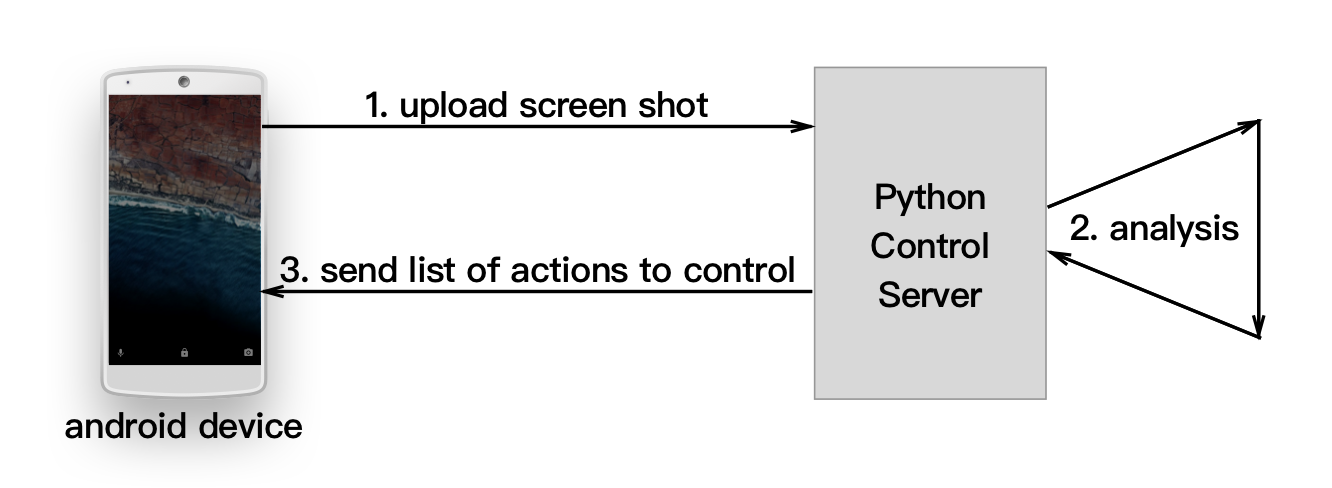
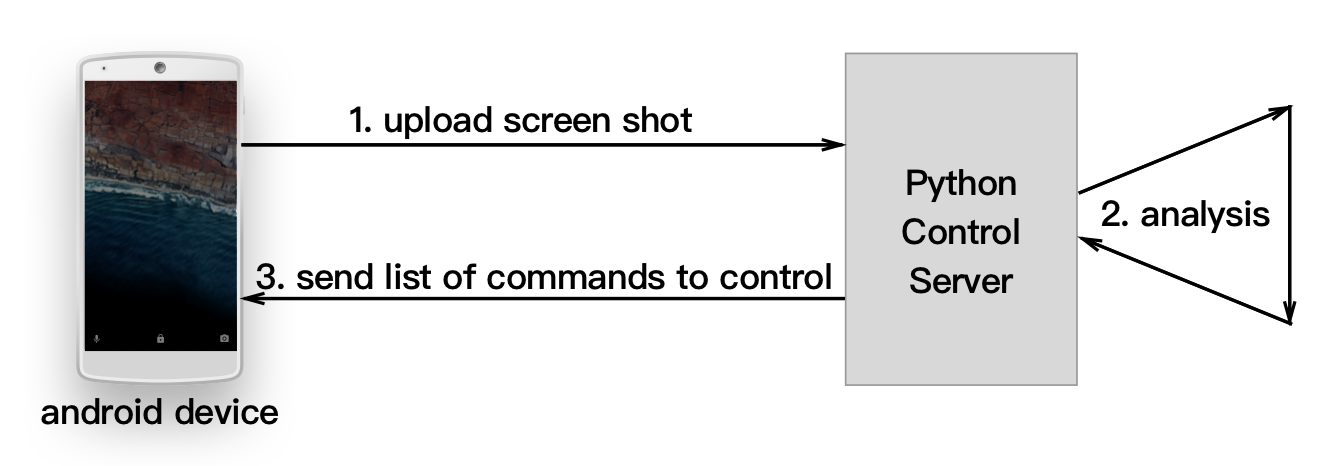
add FloatWindow and simple-control-server.

Changed region(s): [[0.0308, 0.0901, 0.985, 0.9313]]

diff --git a/py-android-control-app/app/src/main/java/app/kalen/pyandroidcontrol/BackgroundService.kt b/py-android-control-app/app/src/main/java/app/kalen/pyandroidcontrol/BackgroundService.kt
@@ -1,0 +1,150 @@
+package app.kalen.pyandroidcontrol
+
+
+import android.app.Service
+import android.content.Context
+import android.content.Intent
+import android.graphics.PixelFormat
+import android.os.Build
+import android.os.IBinder
+import android.provider.Settings
+import android.view.Gravity
+import android.view.MotionEvent
+import android.view.View
+import android.view.WindowManager
+import android.widget.Button
+import android.widget.Toast
+
+
+class BackgroundService : Service() {
+
+    private var windowManager: WindowManager? = null
+    private var layoutParams: WindowManager.LayoutParams? = null
+
+    private var button: Button? = null
+
+    private var performClick = true
+    private var isMoving = false
+    private var taskStarted = false
+
+    override fun onCreate() {
+        super.onCreate()
+
+        windowManager = getSystemService(Context.WINDOW_SERVICE) as WindowManager
+        layoutParams = WindowManager.LayoutParams()
+        if (Build.VERSION.SDK_INT >= Build.VERSION_CODES.O) {
+            layoutParams!!.type = WindowManager.LayoutParams.TYPE_APPLICATION_OVERLAY
+        } else {
+            layoutParams!!.type = WindowManager.LayoutParams.TYPE_PHONE
+        }
+        layoutParams!!.format = PixelFormat.RGBA_8888
+        layoutParams!!.gravity = Gravity.START or Gravity.TOP
+        layoutParams!!.flags = WindowManager.LayoutParams.FLAG_NOT_TOUCH_MODAL or
+                WindowManager.LayoutParams.FLAG_NOT_FOCUSABLE
+        layoutParams!!.width = 250
+        layoutParams!!.height = 140
+        layoutParams!!.x = 300
+        layoutParams!!.y = 300
+    }
+
+    override fun onBind(intent: Intent): IBinder? {
+        BackgroundService.isStarted = true
+        showFloatingWindow()
+
+        return null
+    }
+
+    override fun onUnbind(intent: Intent): Boolean {
+        windowManager!!.removeView(button)
+        BackgroundService.isStarted = false
+        return super.onUnbind(intent)
+    }
+
+    private fun showFloatingWindow() {
+        if (Build.VERSION.SDK_INT >= Build.VERSION_CODES.M) {
+            if (!Settings.canDrawOverlays(this)) {
+                return
+            }
+        }
+        button = Button(applicationContext)
+        button!!.text = "Start"
+        windowManager!!.addView(button, layoutParams)
+
+        button!!.setOnTouchListener(FloatingOnTouchListener())
+
+        button!!.setOnClickListener {
+            println("ACTION_clicked")
+            println(performClick)
+            if (performClick) {
+                if (!taskStarted) {
+                    button!!.text = "Stop"
+                    Toast.makeText(applicationContext, "Task Started!!", Toast.LENGTH_SHORT).show()
+                    // start a thread to run in backend.
+                    Thread(Runnable {
+                        while (this@BackgroundService.taskStarted) {
+                            try {
+                                Thread.sleep(1000)
+
+                                NetUtils.uploadScreenshot()
+                            } catch (e: InterruptedException) {
+                                e.printStackTrace()
+                            }
+
+                        }
+                    }).start()
+                } else {
+                    button!!.text = "Start"
+                    Toast.makeText(applicationContext, "Task Stopped!!", Toast.LENGTH_SHORT).show()
+                }
+                taskStarted = !taskStarted
+            }
+        }
+    }
+
+
+    private inner class FloatingOnTouchListener : View.OnTouchListener {
+        private var x: Int = 0
+        private var y: Int = 0
+
+
+        override fun onTouch(view: View, event: MotionEvent): Boolean {
+            when (event.action) {
+
+                MotionEvent.ACTION_DOWN -> {
+                    println("ACTION_DOWN")
+                    x = event.rawX.toInt()
+                    y = event.rawY.toInt()
+                }
+                MotionEvent.ACTION_MOVE -> {
+                    println("ACTION_MOVE")
+                    val nowX = event.rawX.toInt()
+                    val nowY = event.rawY.toInt()
+
+                    // when clicked also trigger the ACTION_MOVE
+                    if ((nowX != x) or (nowY != y)) {
+                        isMoving = true
+                    }
+                    val movedX = nowX - x
+                    val movedY = nowY - y
+                    x = nowX
+                    y = nowY
+                    layoutParams!!.x = layoutParams!!.x + movedX
+                    layoutParams!!.y = layoutParams!!.y + movedY
+                    windowManager!!.updateViewLayout(view, layoutParams)
+                }
+                MotionEvent.ACTION_UP -> {
+                    performClick = !isMoving
+                    isMoving = false
+                    println("ACTION_UP")
+                }
+                else -> {
+                }
+            }
+            return false
+        }
+    }
+
+    companion object {
+        var isStarted = false
+    }
+}

diff --git a/py-android-control-app/app/src/main/java/app/kalen/pyandroidcontrol/MainActivity.kt b/py-android-control-app/app/src/main/java/app/kalen/pyandroidcontrol/MainActivity.kt
@@ -1,22 +1,116 @@
 package app.kalen.pyandroidcontrol
 
+import android.content.Context
+import android.content.Intent
+import android.content.ServiceConnection
 import android.support.v7.app.AppCompatActivity
 import android.os.Bundle
 import android.widget.Button
 import android.widget.Toast
+import com.jaredrummler.android.shell.Shell
+import com.jaredrummler.android.shell.CommandResult
+import android.provider.Settings
+import android.os.Build
+import android.content.ComponentName
+import android.net.Uri
+import android.os.IBinder
+
+
+
+
+
+
 
 class MainActivity : AppCompatActivity() {
 
-    private var rootBtn: Button? = null
+    private var startBtn: Button? = null
+    private var stopBtn: Button? = null
 
     override fun onCreate(savedInstanceState: Bundle?) {
         super.onCreate(savedInstanceState)
         setContentView(R.layout.activity_main)
 
-        rootBtn = findViewById(R.id.root_btn)
-        rootBtn!!.setOnClickListener{
-            Toast.makeText(this, "Hello", Toast.LENGTH_LONG).show()
+        startBtn = findViewById(R.id.start_btn)
+        startBtn!!.setOnClickListener{
+            startBGService()
+
+//            var result: CommandResult = Shell.SU.run("id")
+//            if (result.isSuccessful) {
+//                println(result.getStdout())
+//            }
+//
+//            result = Shell.SU.run("/system/bin/screencap -p /sdcard/scre666enshot.png > /dev/null")
+//            if (result.isSuccessful) {
+//                println(result.getStdout())
+//            }
         }
+
+        stopBtn = findViewById(R.id.terminate_btn)
+        stopBtn!!.setOnClickListener {
+            if (BackgroundService.isStarted) {
+                unbindService(conn)
+            }
+        }
+
+    }
+
+    private var conn: ServiceConnection? = null
+
+    override fun onActivityResult(requestCode: Int, resultCode: Int, data: Intent?) {
+        super.onActivityResult(requestCode, resultCode, data)
+        if (requestCode == 0) {
+            if (Build.VERSION.SDK_INT >= Build.VERSION_CODES.M) {
+                if (!Settings.canDrawOverlays(this)) {
+                    Toast.makeText(this, "Authorization failure", Toast.LENGTH_SHORT).show()
+                } else {
+                    Toast.makeText(this, "Authorization success", Toast.LENGTH_SHORT).show()
+                    bindService(
+                        Intent(this@MainActivity, BackgroundService::class.java),
+                        conn, Context.BIND_AUTO_CREATE
+                    )
+                }
+            }
+        }
+    }
+
+    fun startBGService() {
+
+        if (BackgroundService.isStarted) {
+            return
+        }
+
+        conn = object : ServiceConnection {
+            override fun onServiceConnected(name: ComponentName, service: IBinder) {
+
+            }
+
+            override fun onServiceDisconnected(name: ComponentName) {
+
+            }
+        }
+
+        if (Build.VERSION.SDK_INT >= Build.VERSION_CODES.M) {
+            if (!Settings.canDrawOverlays(this)) {
+                Toast.makeText(this, "No Permission", Toast.LENGTH_SHORT).show()
+                startActivityForResult(
+                    Intent(
+                        Settings.ACTION_MANAGE_OVERLAY_PERMISSION,
+                        Uri.parse("package:$packageName")
+                    ), 0
+                )
+            } else {
+                bindService(
+                    Intent(this@MainActivity, BackgroundService::class.java),
+                    conn, Context.BIND_AUTO_CREATE
+                )
+            }
+        } else {
+            bindService(
+                Intent(this@MainActivity, BackgroundService::class.java),
+                conn, Context.BIND_AUTO_CREATE
+            )
+        }
+
     }
 
 

diff --git a/py-android-control-app/app/src/main/java/app/kalen/pyandroidcontrol/NetUtils.kt b/py-android-control-app/app/src/main/java/app/kalen/pyandroidcontrol/NetUtils.kt
@@ -1,0 +1,16 @@
+package app.kalen.pyandroidcontrol
+
+object NetUtils {
+
+    var BASE_URL = ""
+    var Token = ""
+
+    fun uploadScreenshot(){
+
+    }
+
+    fun getToken() {
+
+
+    }
+}

diff --git a/simple-control-server/control_server.py b/simple-control-server/control_server.py
@@ -1,0 +1,54 @@
+from flask import Flask
+from flask import request
+import uuid
+import json
+from logics import get_commands
+
+app = Flask(__name__)
+
+
+ALLOWED_EXTENSIONS = [
+    "jpg",
+    "png",
+    "jpeg",
+    "bmp",
+]
+
+
+def allowed_file(filename):
+    return '.' in filename and \
+           filename.rsplit('.', 1)[1].lower() in ALLOWED_EXTENSIONS
+
+
+@app.route('/login')
+def login():
+    return json.dumps({
+        "token": str(uuid.uuid4())
+    })
+
+
+@app.route('/upload_screenshot', methods=['POST'])
+def screenshot_upload():
+    if request.method == 'POST':
+        if 'file' not in request.files:
+            return json.dumps({'code': -1, 'msg': 'No file part'})
+        file = request.files['file']
+        if file.filename == '':
+            return json.dumps({'code': -1, 'msg': 'No selected file'})
+        else:
+            try:
+                if file and allowed_file(file.filename):
+                    token = request.args.get("token")
+
+                    cmds = get_commands(token, file)
+
+                    return json.dumps({'code': 0, 'msg': 'success', 'commands': cmds})
+                else:
+                    return json.dumps({'code': -1, 'msg': 'File not allowed'})
+            except Exception:
+                return json.dumps({'code': -1, 'msg': 'Error occurred'})
+
+
+if __name__ == '__main__':
+    app.run(host="0.0.0.0", port=6777)
+

diff --git a/simple-control-server/logics.py b/simple-control-server/logics.py
@@ -1,0 +1,13 @@
+"""
+    Write you own logic to control the remote Android Device
+"""
+
+
+def get_commands(token, img_file):
+    """  """
+    img_file.save("tmp.png")
+    print(token)
+
+    cmds = []
+
+    return cmds
